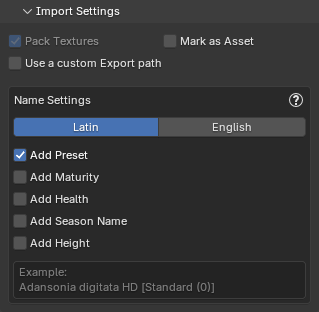
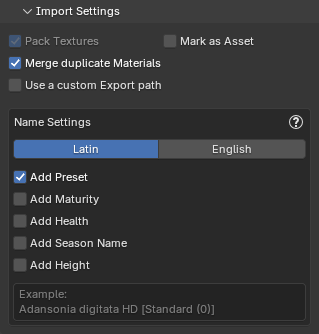
1.1.3

diff --git a/docs/changelog.md b/docs/changelog.md
@@ -12,6 +12,15 @@ Here, you can find a list of all updates, enhancements, and bug fixes made to PF
 
 <div class="changelog" markdown>
 
+### 1.1.3 <small>2025-08-05</small>
+
+> Compatibility: This version and previous versions have been verified to work with Blender 4.2 LTS, 4.3, 4.4, and 4.5 LTS.
+
+- **New Functionality**
+    - New option `Merge Duplicate Materials` to reduce material clutter when importing plants. When enabled, Blender will reuse existing materials with matching names instead of creating duplicates like Leaf.001, Bark.002, etc. This helps keep the scene cleaner and more optimized during batch imports. [More info](workflow/import_settings.md#general-settings)
+
+---
+
 ### 1.1.2 <small>2025-05-03</small>
 
 - **New Functionality**

diff --git a/docs/workflow/import_settings.md b/docs/workflow/import_settings.md
@@ -13,6 +13,7 @@ These settings are shared between both Import modes.
 
     <div style="clear:both"></div>
 
+- **Merge duplicate Materials**: When enabled, this option ensures that imported plants reuse existing materials in the scene if names match (e.g. Leaf, Bark). This prevents Blender from generating duplicates like Leaf.001, helping maintain a cleaner and more organized material list across multiple imports.
 - **Use a custom Export path**: Set a custom export path if you need to access the files exported from PlantFactory. If this setting is not enabled, the exported files will be removed from their temporary location once they are imported into Blender.
 
 ### Name Settings

diff --git a/docs/workflow/post_processing.md b/docs/workflow/post_processing.md
@@ -21,6 +21,8 @@ Select a plant in the `3D Viewport`, and the detected material types will be dis
 
 The checkboxes to the left of each property allow you to enable or disable updates for that specific value when applying changes. For example, if you only want to update **Translucency**, you can uncheck all other boxes and click **OK** to apply only that change.
 
+For details about all material settings, see [Material Settings](../workflow/material_settings.md#settings) documentation."
+
 <div style="clear:both"></div>
 
 
